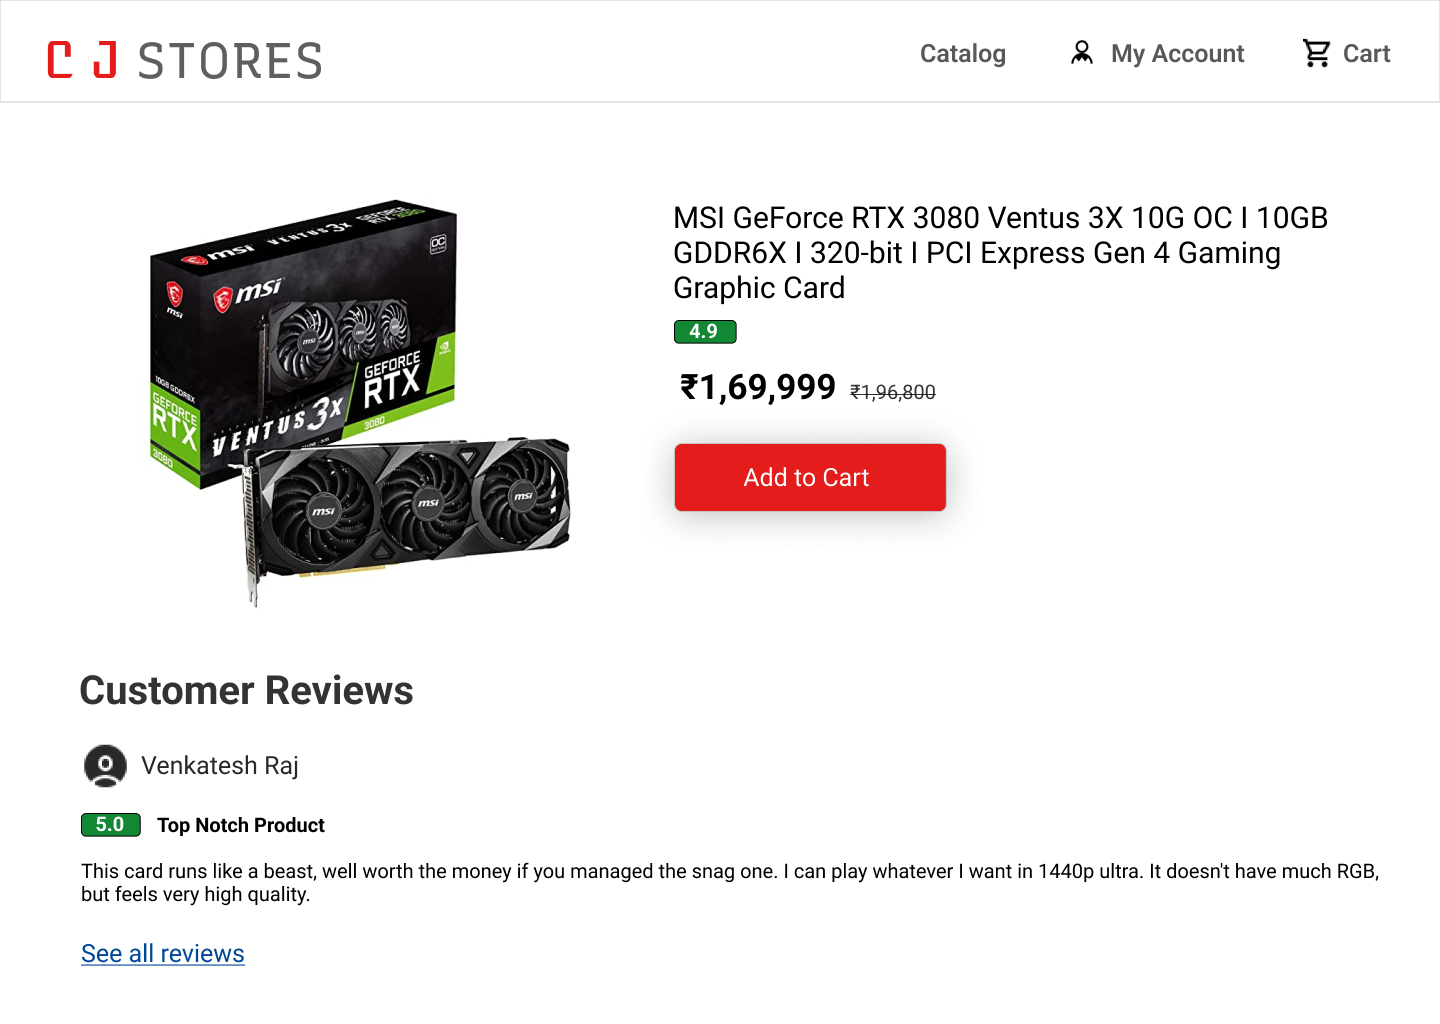
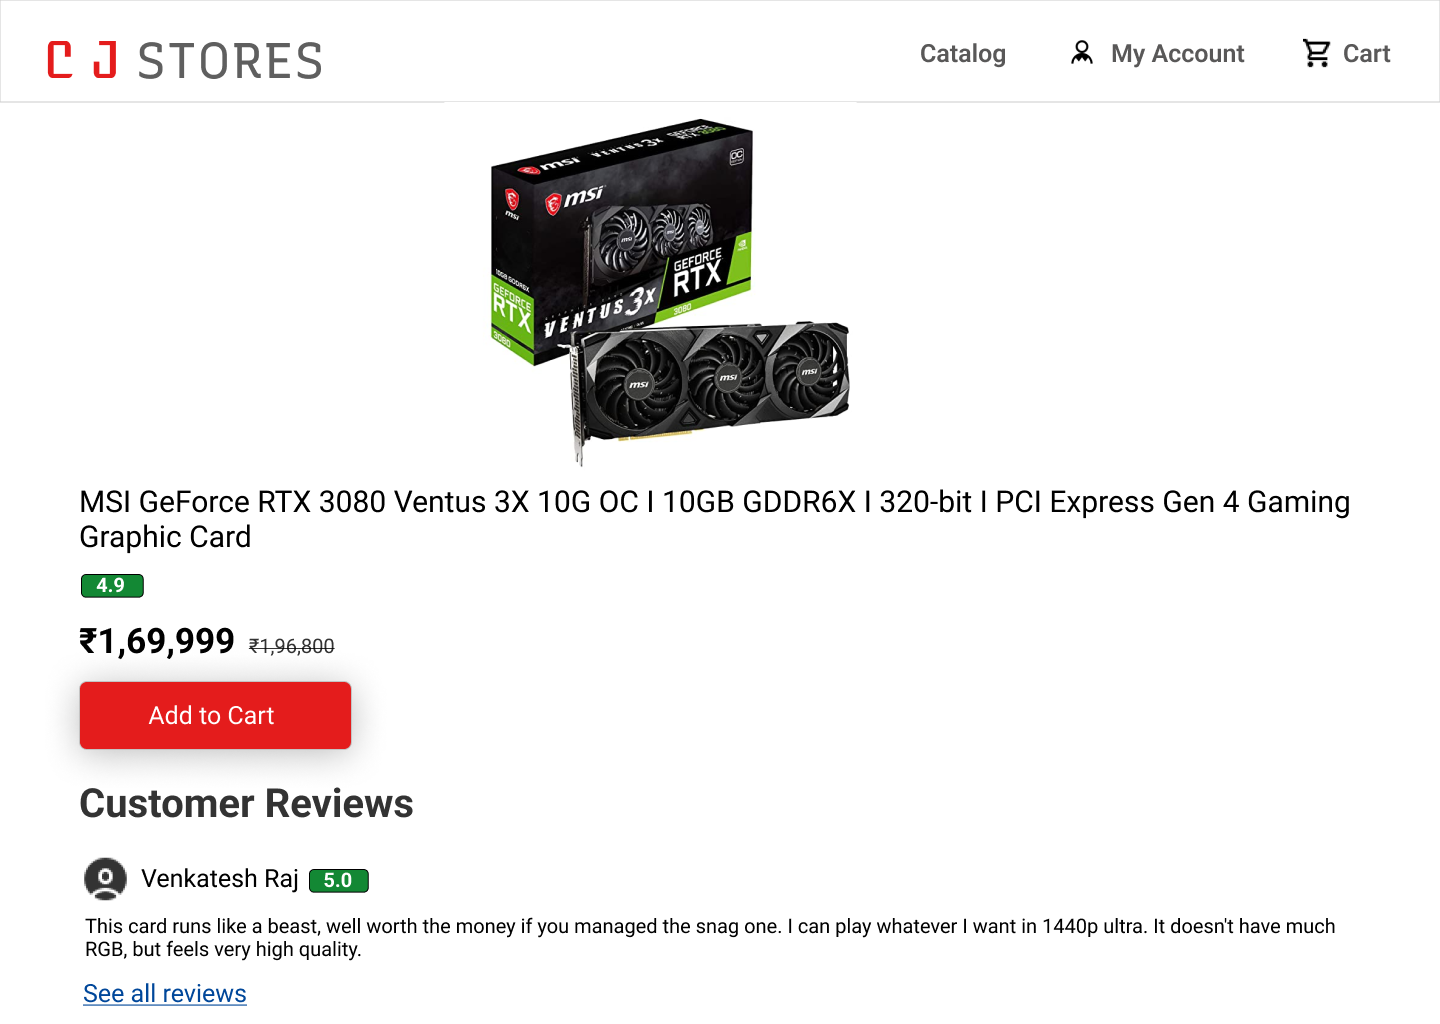
Item Page 1 and other small changes

Changed region(s): [[0.0312, 0.0938, 0.9688, 1.0]]

diff --git a/frontend/src/Pages/Item/Item.jsx b/frontend/src/Pages/Item/Item.jsx
@@ -1,0 +1,62 @@
+import React, { useState, useEffect } from "react";
+import "./Item.css";
+import { useParams } from "react-router-dom";
+import axios from "axios";
+import apiURL from "../../Api";
+import Spinner from "../../Components/Spinner/Spinner";
+
+function Item() {
+  const Params = useParams();
+  const catalog = Params.catalog.toLowerCase().replace(" ", "");
+  const id = Params.id;
+  const [loading, setLoading] = useState(true);
+  const [itemData, setItemData] = useState();
+
+  useEffect(async () => {
+    await axios.get(`${apiURL}/${catalog}/${id}`).then((res) => {
+      setItemData(res.data);
+    });
+    setLoading(false);
+  }, []);
+
+  return (
+    <div>
+      {loading ? (
+        <Spinner />
+      ) : (
+        <div className="item__Container">
+          <div className="item__Details">
+            <div
+              className="item__Img"
+              style={{
+                backgroundImage: `url(${itemData[0].img})`,
+                backgroundSize: "contain",
+                backgroundRepeat: "no-repeat",
+                backgroundPosition: "center",
+                // position: "fixed",
+              }}
+            ></div>
+            <div className="item__Description">
+              <div>
+                <h2>{itemData[0].name}</h2>
+              </div>
+              <div>
+                <rating className="item__Rating">{itemData[0].rating}</rating>
+              </div>
+              <div className="item__Price">
+                <span>₹{itemData[0].reducedPrice}</span>
+                <span>₹{itemData[0].originalPrice}</span>
+              </div>
+              <div className="item__Button">
+                <button>Add to Cart</button>
+              </div>
+            </div>
+          </div>
+          <div className="item__Reviews"></div>
+        </div>
+      )}
+    </div>
+  );
+}
+
+export default Item;

diff --git a/frontend/src/Components/Card/Card.jsx b/frontend/src/Components/Card/Card.jsx
@@ -2,16 +2,23 @@ import React, { useState } from "react";
 import "./Card.css";
 import FavoriteIcon from "@mui/icons-material/Favorite";
 import FavoriteBorderOutlinedIcon from "@mui/icons-material/FavoriteBorderOutlined";
+import { useNavigate } from "react-router-dom";
 
-function Card({ product }) {
+function Card({ product, catalog }) {
   const [isFavorite, setIsFavorite] = useState(false);
+  const navigate = useNavigate();
+
+  const navigateToItem = () => {
+    navigate(`/${catalog}/${product.id}`);
+  };
+
   const handleFavorite = () => {
     isFavorite ? setIsFavorite(false) : setIsFavorite(true);
   };
 
   return (
     <div id={product.id} className="card__Container">
-      <div className="product__Img">
+      <div onClick={navigateToItem} className="product__Img">
         <div onClick={handleFavorite} className="fav">
           {isFavorite ? (
             <FavoriteIcon style={{ "font-size": "2rem" }} />
@@ -30,7 +37,7 @@ function Card({ product }) {
         ></div>
       </div>
       <div className="product__Details">
-        <h3>{product.name}</h3>
+        <h3 onClick={navigateToItem}>{product.name}</h3>
         <detail>
           <rating className="rating">{product.rating}</rating>
           <button>Add</button>

diff --git a/frontend/src/Pages/Item/Item.css b/frontend/src/Pages/Item/Item.css
@@ -1,0 +1,64 @@
+.item__Container {
+  width: 90%;
+  margin: auto;
+}
+
+.item__Details {
+  display: flex;
+  flex-direction: column;
+  align-items: center;
+  flex-wrap: wrap;
+  margin-top: 1rem;
+}
+
+.item__Img {
+  width: 70rem;
+  height: 50rem;
+}
+
+.item__Description {
+  padding-top: 2rem;
+  width: 100%;
+}
+
+.item__Description div {
+  padding: 1rem;
+}
+
+.item__Description div h2 {
+  font-size: 3rem;
+  font-weight: 500;
+}
+
+.item__Rating {
+  background-color: #138834;
+  font-size: 1.3rem;
+  padding: 0.2rem 1.5rem;
+  color: #ffffff;
+  border-radius: 0.5rem;
+  border: 1px solid black;
+  padding-bottom: 0.5rem;
+}
+
+.item__Price span:first-child {
+  font-size: 3rem;
+  font-weight: 800;
+}
+
+.item__Price span:last-child {
+  font-size: 1.5rem;
+  text-decoration: line-through;
+  font-weight: 500;
+  padding: 0 0.5rem;
+}
+
+.item__Button button {
+  background-color: #e41c1c;
+  color: #ffffff;
+  padding: 1rem 2.5rem;
+  font-size: 2.2rem;
+  border: none;
+  border-radius: 0.5rem;
+  cursor: pointer;
+  box-shadow: 0rem 0.5rem 1.5rem rgba(0, 0, 0, 0.452);
+}

diff --git a/Backend/server.js b/Backend/server.js
@@ -67,8 +67,18 @@ app.get("/", async (req, res) => {
     const keyboard = await keyboardSC.find();
 
     let data = {
-      deals: [gpu[0], processor[0], monitor[0], keyboard[0]],
-      new: [cabinet[0], ram[0], mouse[0], processor[1]],
+      deals: [
+        { gpu: gpu[0] },
+        { processor: processor[0] },
+        { monitor: monitor[0] },
+        { keyboard: keyboard[0] },
+      ],
+      new: [
+        { cabinet: cabinet[0] },
+        { ram: ram[0] },
+        { mouse: mouse[0] },
+        { processor: processor[1] },
+      ],
     };
 
     res.json([data]);
@@ -140,9 +150,7 @@ app.get("/:catalog/:id", async (req, res) => {
 
     const item = await findModel(catalog).find({ id: req.params.id });
     if (item.length > 0) {
-      res.json({
-        message: item,
-      });
+      res.json(item);
     } else {
       res.json({
         message: "Item not found",

diff --git a/frontend/src/App.js b/frontend/src/App.js
@@ -4,6 +4,7 @@ import { BrowserRouter, Routes, Route } from "react-router-dom";
 import Home from "./Pages/Home/Home";
 import Catalog from "./Pages/Catalog/Catalog";
 import Product from "./Pages/Product/Product";
+import Item from "./Pages/Item/Item";
 
 function App() {
   return (
@@ -15,6 +16,7 @@ function App() {
             <Route path="/" element={<Home />} />
             <Route path="/catalog" element={<Catalog />} />
             <Route path="/:catalog" element={<Product />} />
+            <Route path="/:catalog/:id" element={<Item />} />
           </Routes>
         </div>
       </BrowserRouter>

diff --git a/frontend/src/Pages/Product/Product.jsx b/frontend/src/Pages/Product/Product.jsx
@@ -26,7 +26,6 @@ function Product() {
         setCatalogData(res.data);
       });
     setLoading(false);
-    console.log("effect");
   }, []);
 
   const radioOnchange = (e) => {
@@ -58,7 +57,7 @@ function Product() {
 
   const renderProducts = () => {
     let fragment = renderData.map((ele) => {
-      return <Card product={ele} />;
+      return <Card product={ele} catalog={catalog} />;
     });
     return fragment;
   };

diff --git a/frontend/src/Pages/Home/Home.jsx b/frontend/src/Pages/Home/Home.jsx
@@ -18,7 +18,12 @@ function Home() {
     let fragment = (
       <div className="arrange__Cards">
         {data.map((ele) => {
-          return <Card product={ele} />;
+          return (
+            <Card
+              product={Object.values(ele)[0]}
+              catalog={Object.keys(ele)[0]}
+            />
+          );
         })}
       </div>
     );

diff --git a/frontend/src/Components/Header/Header.css b/frontend/src/Components/Header/Header.css
@@ -6,6 +6,10 @@
   justify-content: space-between;
   align-items: center;
   padding: 1.5rem 3rem;
+  position: sticky;
+  top: 0;
+  z-index: 1;
+  background-color: #ffffff;
   border-bottom: 0.2rem solid #cbcbcb;
 }
 
